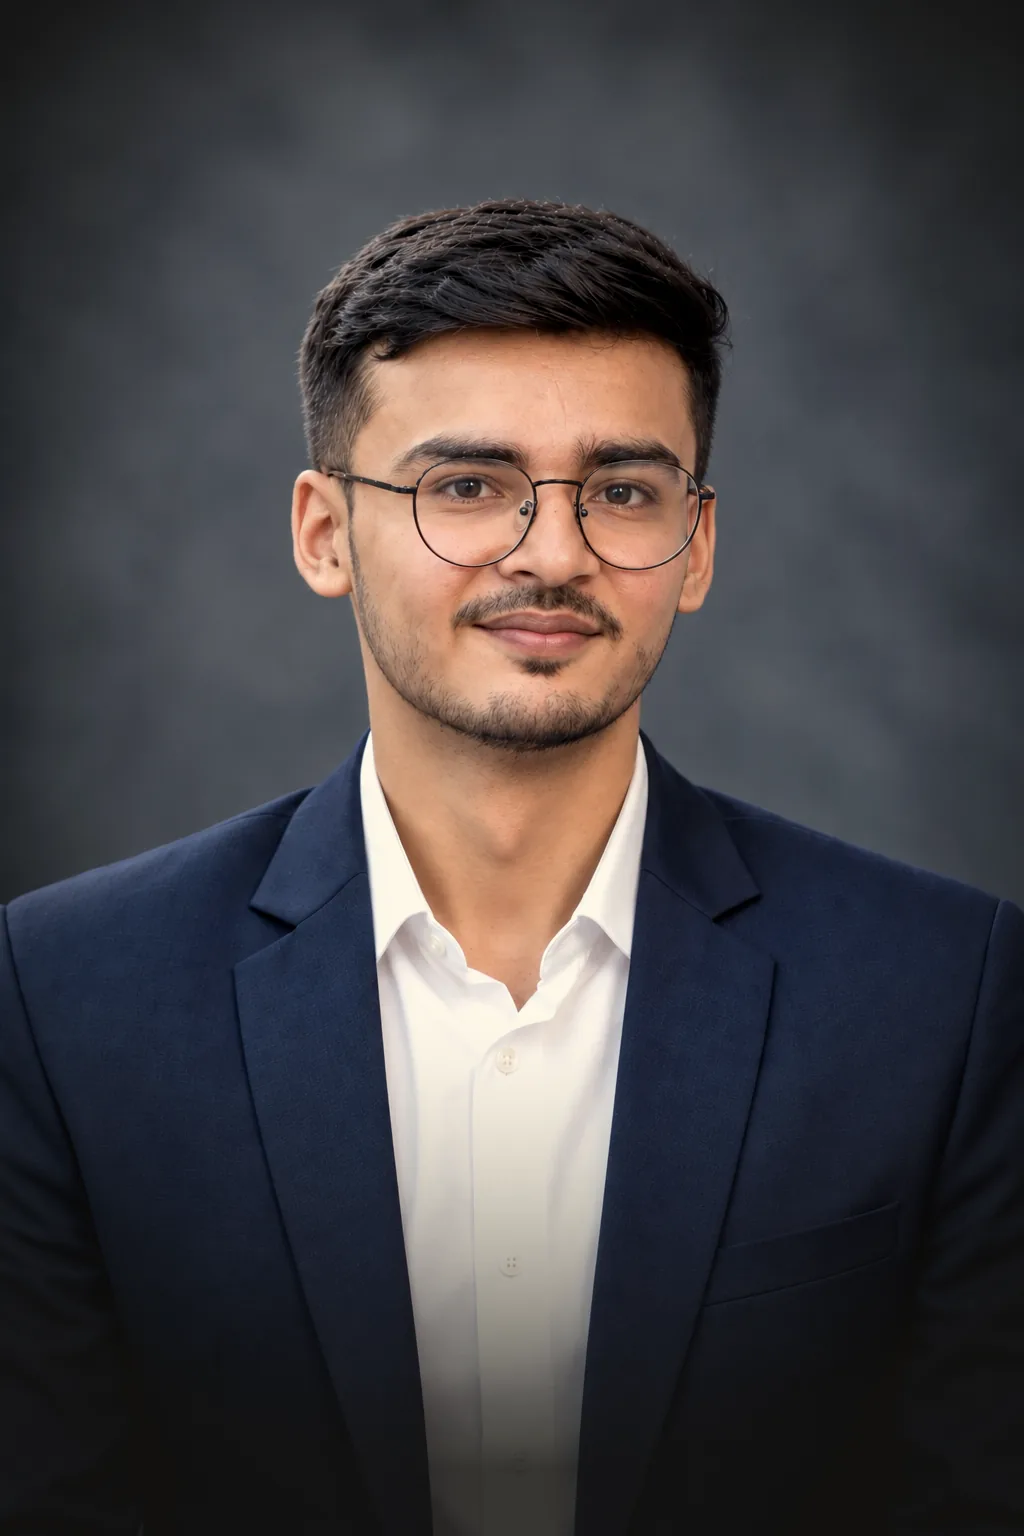
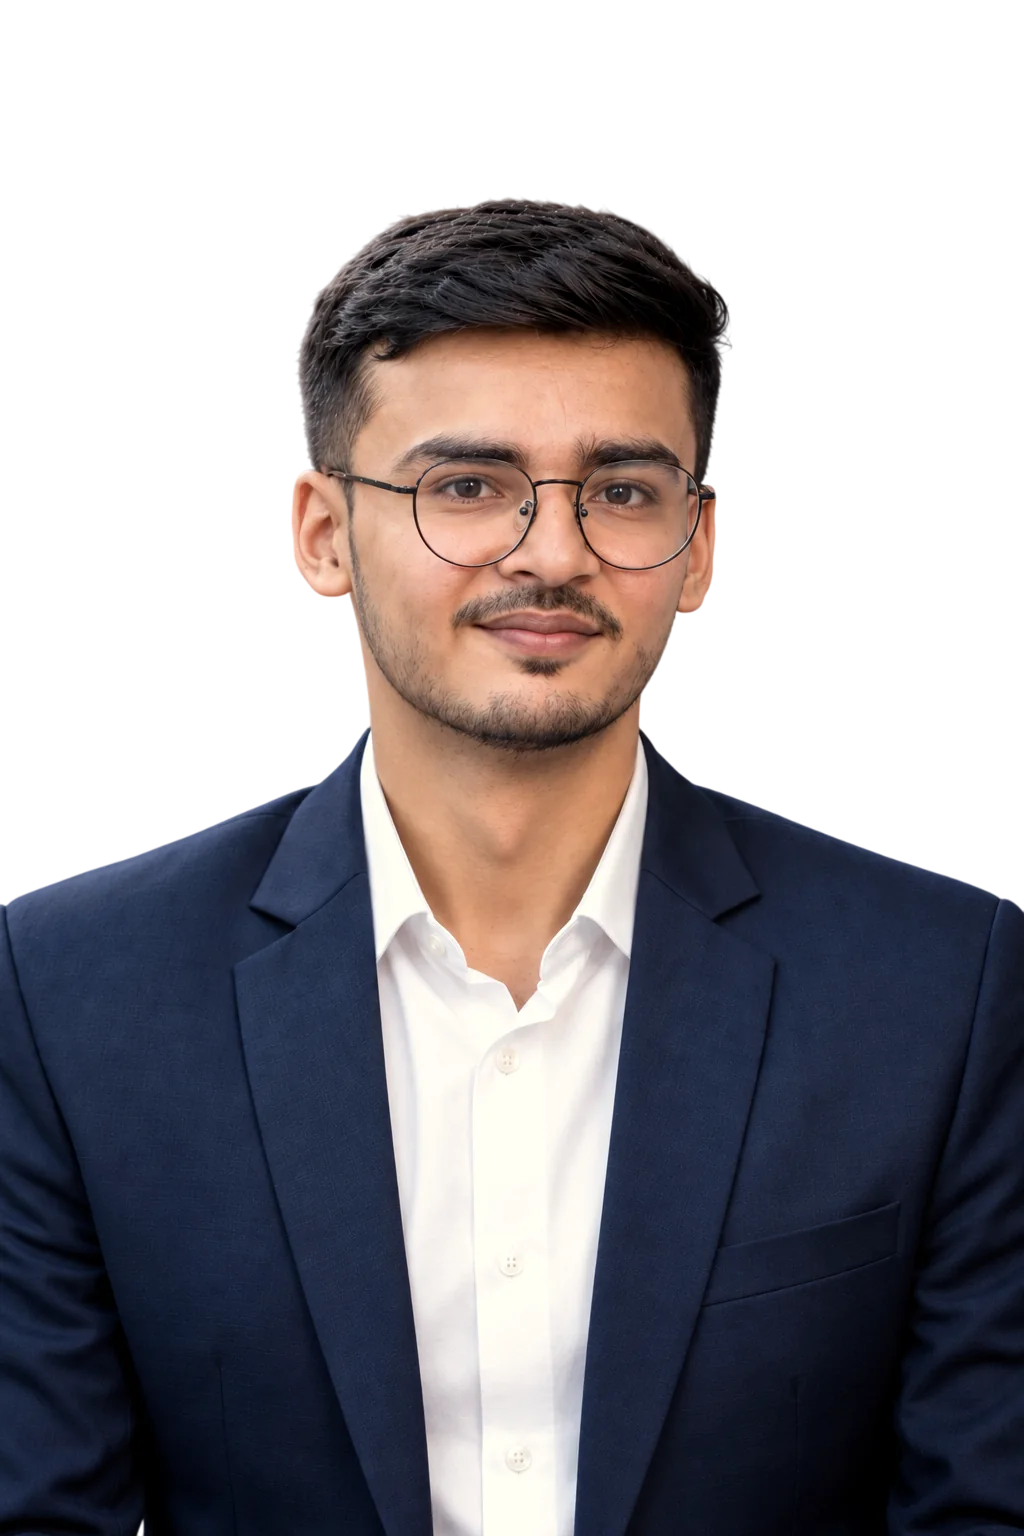
Swap to background-removed portrait (alpha cutout)

diff --git a/src/components/Hero.tsx b/src/components/Hero.tsx
@@ -171,7 +171,7 @@ export function Hero({ ready }: { ready: boolean }) {
       const ir = img.getBoundingClientRect();
       if (wr.width === 0 || wr.height === 0 || ir.width === 0) return;
       const faceX = ir.left + 0.5 * ir.width;
-      const faceY = ir.top + 0.31 * ir.height;
+      const faceY = ir.top + 0.3 * ir.height;
       const s = wrap.style;
       s.setProperty("--mx", `${(((faceX - wr.left) / wr.width) * 100).toFixed(2)}%`);
       s.setProperty("--my", `${(((faceY - wr.top) / wr.height) * 100).toFixed(2)}%`);
